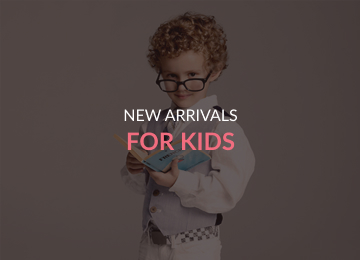
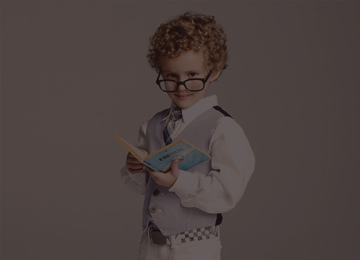
2

Changed region(s): [[0.3361, 0.4, 0.6722, 0.5846]]

diff --git a/style.css b/style.css
@@ -56,8 +56,12 @@ body {
     flex-direction: row;
     flex-wrap: wrap;
     align-content: center;
-    justify-content: space-between;
+    justify-content: center;
     align-items: center;
+}
+
+.top__img {
+    max-width: 570px;
 }
 
 
@@ -87,7 +91,7 @@ body {
 }
 
 .categories {
-    display: -ms-grid;
+    /* display: -ms-grid; */
     display: grid;
     gap: 30px;
     grid-template-columns: repeat(3, 1fr);
@@ -99,7 +103,7 @@ body {
 }
 
 .categories__items_big {
-    min-height: 180px;
+    /* min-height: 180px; */
     grid-column: 1 / -1;
 }
 
@@ -109,18 +113,18 @@ body {
     height: 100%;
     top: 0;
     left: 0;
-    display: -webkit-box;
-    display: -ms-flexbox;
+    /* display: -webkit-box; */
+    /* display: -ms-flexbox; */
     display: flex;
-    -webkit-box-orient: vertical;
-    -webkit-box-direction: normal;
-    -ms-flex-direction: column;
+    /* -webkit-box-orient: vertical; */
+    /* -webkit-box-direction: normal; */
+    /* -ms-flex-direction: column; */
     flex-direction: column;
-    -webkit-box-pack: center;
-    -ms-flex-pack: center;
+    /* -webkit-box-pack: center; */
+    /* -ms-flex-pack: center; */
     justify-content: center;
-    -webkit-box-align: center;
-    -ms-flex-align: center;
+    /* -webkit-box-align: center; */
+    /* -ms-flex-align: center; */
     align-items: center;
 }
 
@@ -230,4 +234,56 @@ body {
     line-height: 19px;
     color: #F26376;
     padding: 14px 38px;
+}
+
+
+@media (max-width: 1024px) {
+    .center {
+        padding-right: calc(50% - 368px);
+        padding-left: calc(50% - 368px);
+    }
+
+    .header__left {
+        padding-left: 32px;
+    }
+
+    .header__right {
+        padding-right: 32px;
+    }
+
+    .top__content {
+        padding-left: 32px;
+        padding-right: 32px;
+    }
+
+    .top__img {
+        max-width: 368px;
+    }
+
+    .top__content__text1 {
+        font-size: 44px;
+    }
+
+    .top__content__text2 {
+        font-size: 24px;
+    }
+
+    .categories {
+        /* display: grid; */
+        gap: 19px;
+        grid-template-columns: repeat(3, 230px);
+        /* margin-bottom: 96px; */
+    }
+
+    .categories img {
+        max-width: 232px;
+    }
+
+    .categories__items_big img {
+        max-width: 735px;
+    }
+
+    .fetured__items { 
+        gap: 16px;
+    }
 }

diff --git a/index.html b/index.html
@@ -34,7 +34,7 @@
         </div>
         <!-- блок с лого и мужчиной -->
         <div class="top__content center">
-            <img src="img/top_men.png" alt="top_men">
+            <img class="top__img" src="img/top_men.png" alt="top_men">
             <div class="top__content__logo">
                 <img src="img/top_rectangle.png" alt="top_rectangle">
                 <div>
@@ -73,7 +73,7 @@
             <img src="img/categor3.jpg" alt="categor1">
             <a href="#">
                 <div class="categories__text">
-                    <p class="categories__text1">NEW ARRIVALS FOR KIDS</p>
+                    <p class="categories__text1">NEW ARRIVALS</p>
                     <p class="categories__text2">FOR KIDS</p>
                 </div>
             </a>
